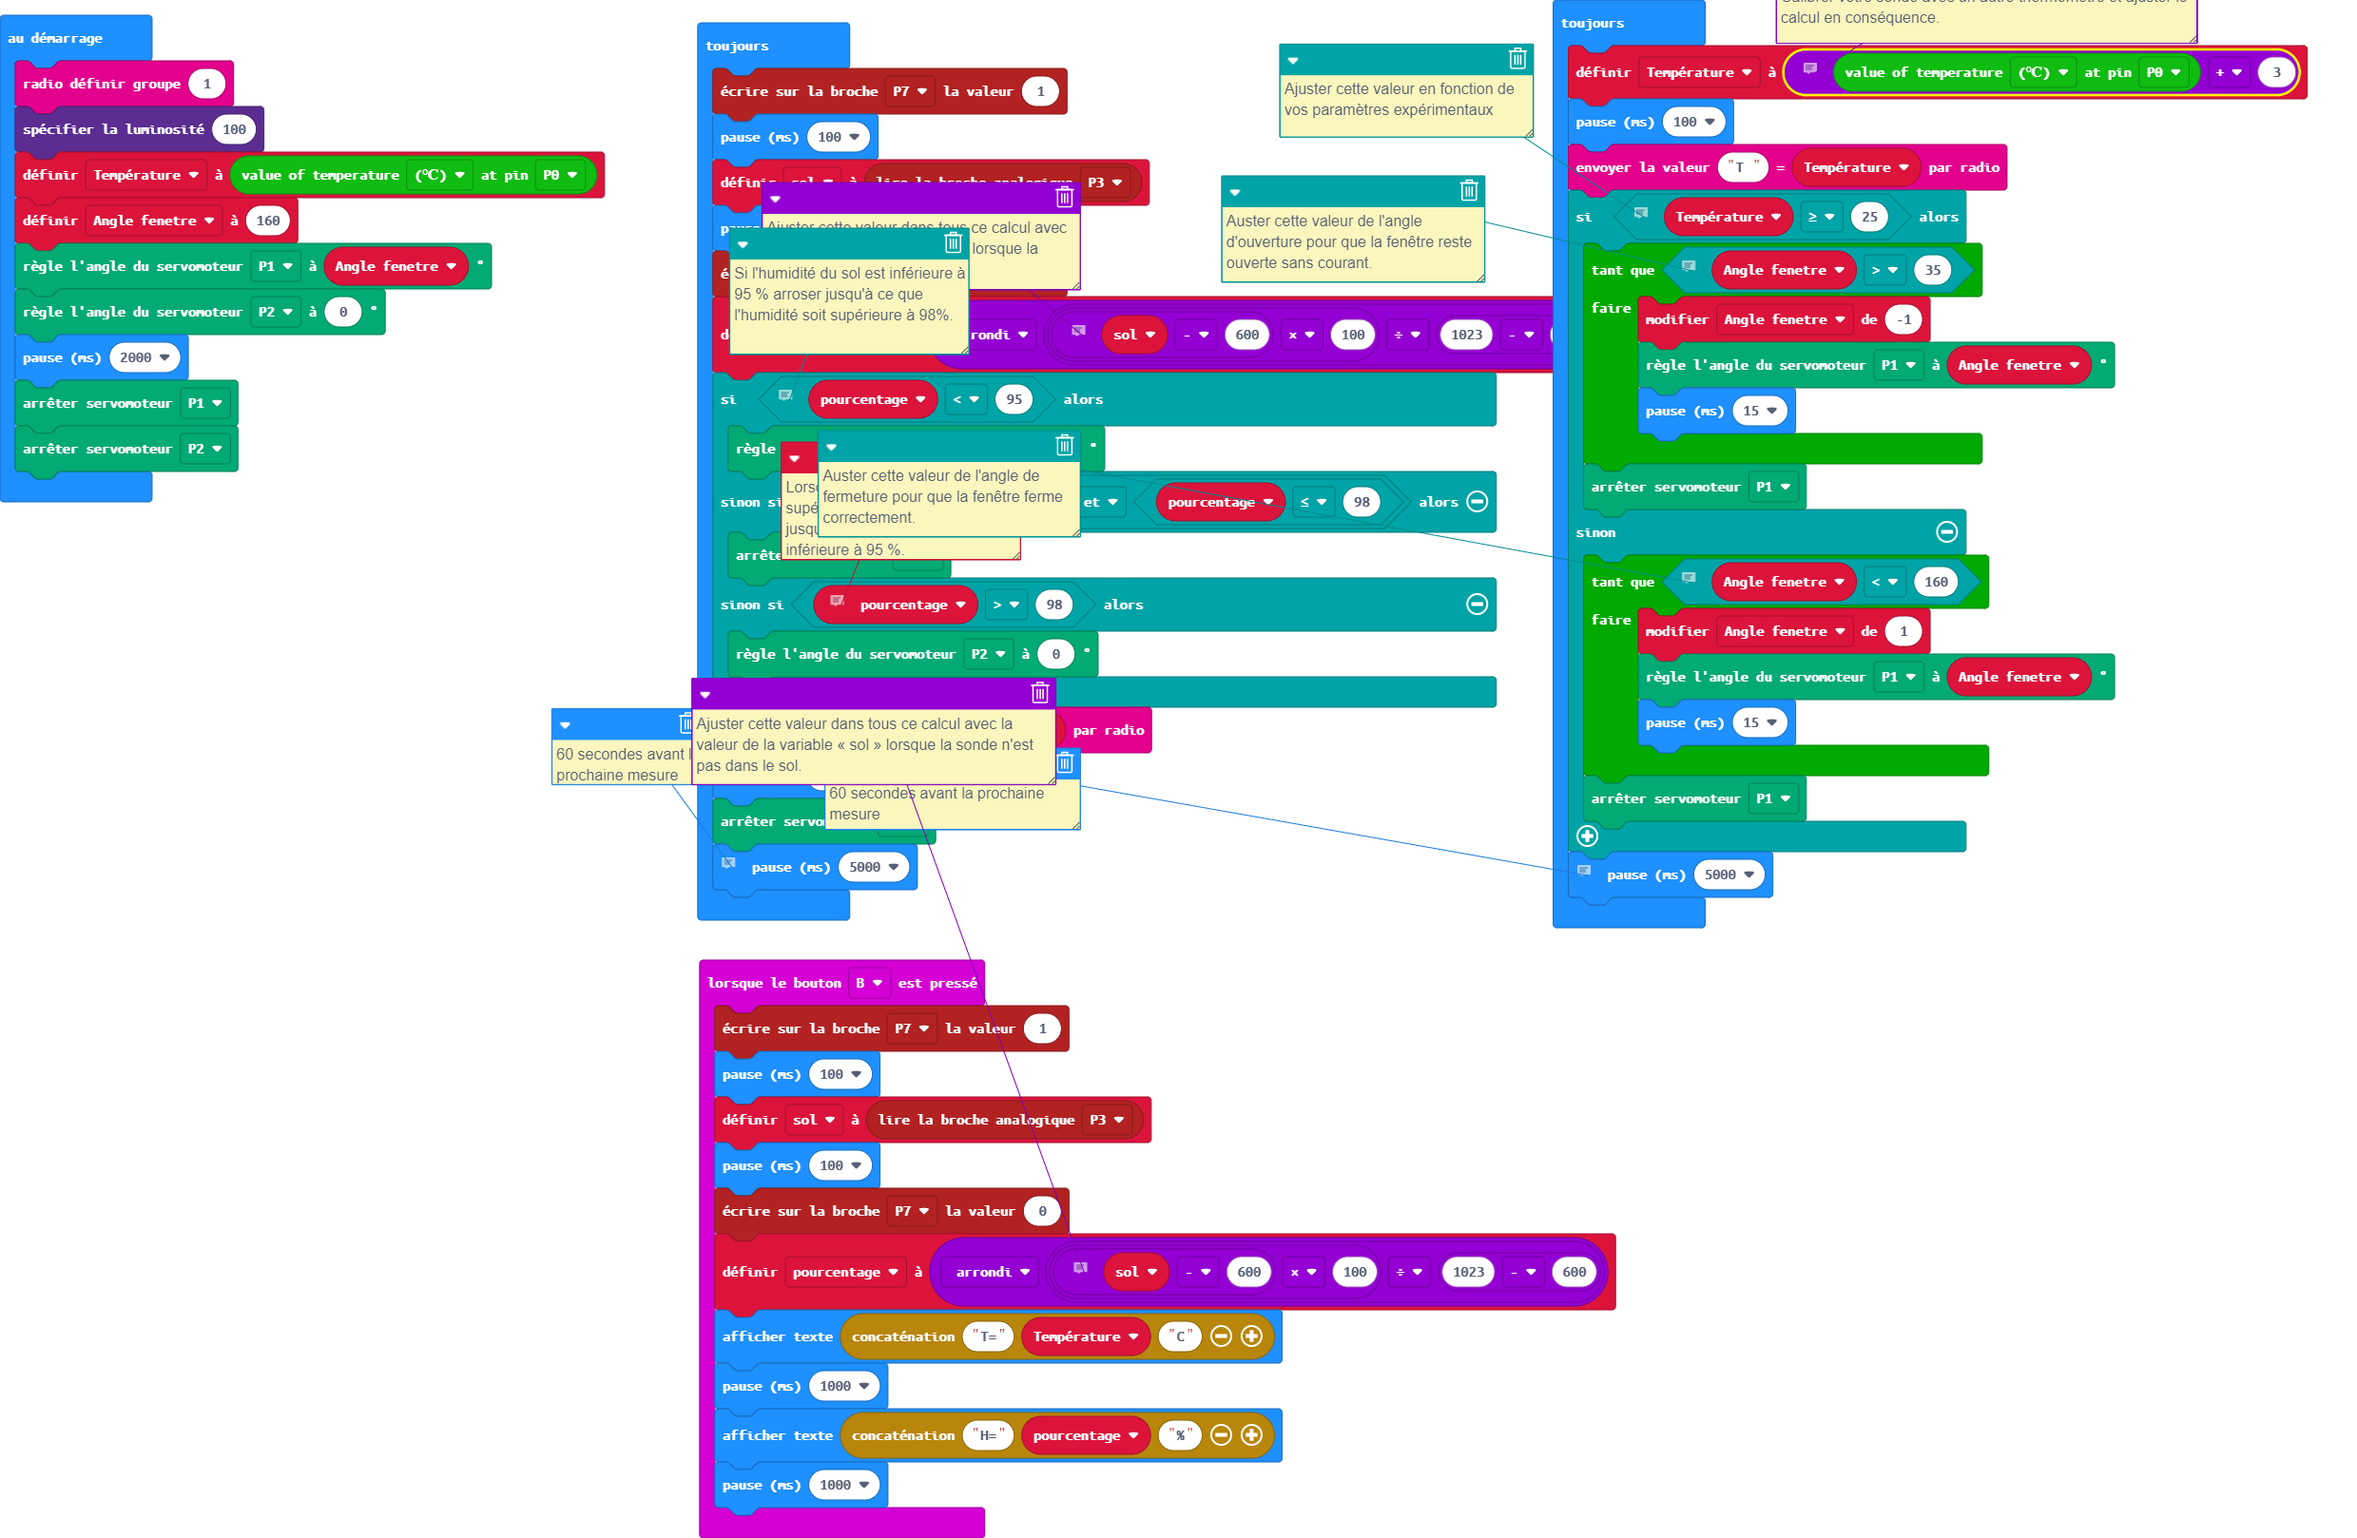
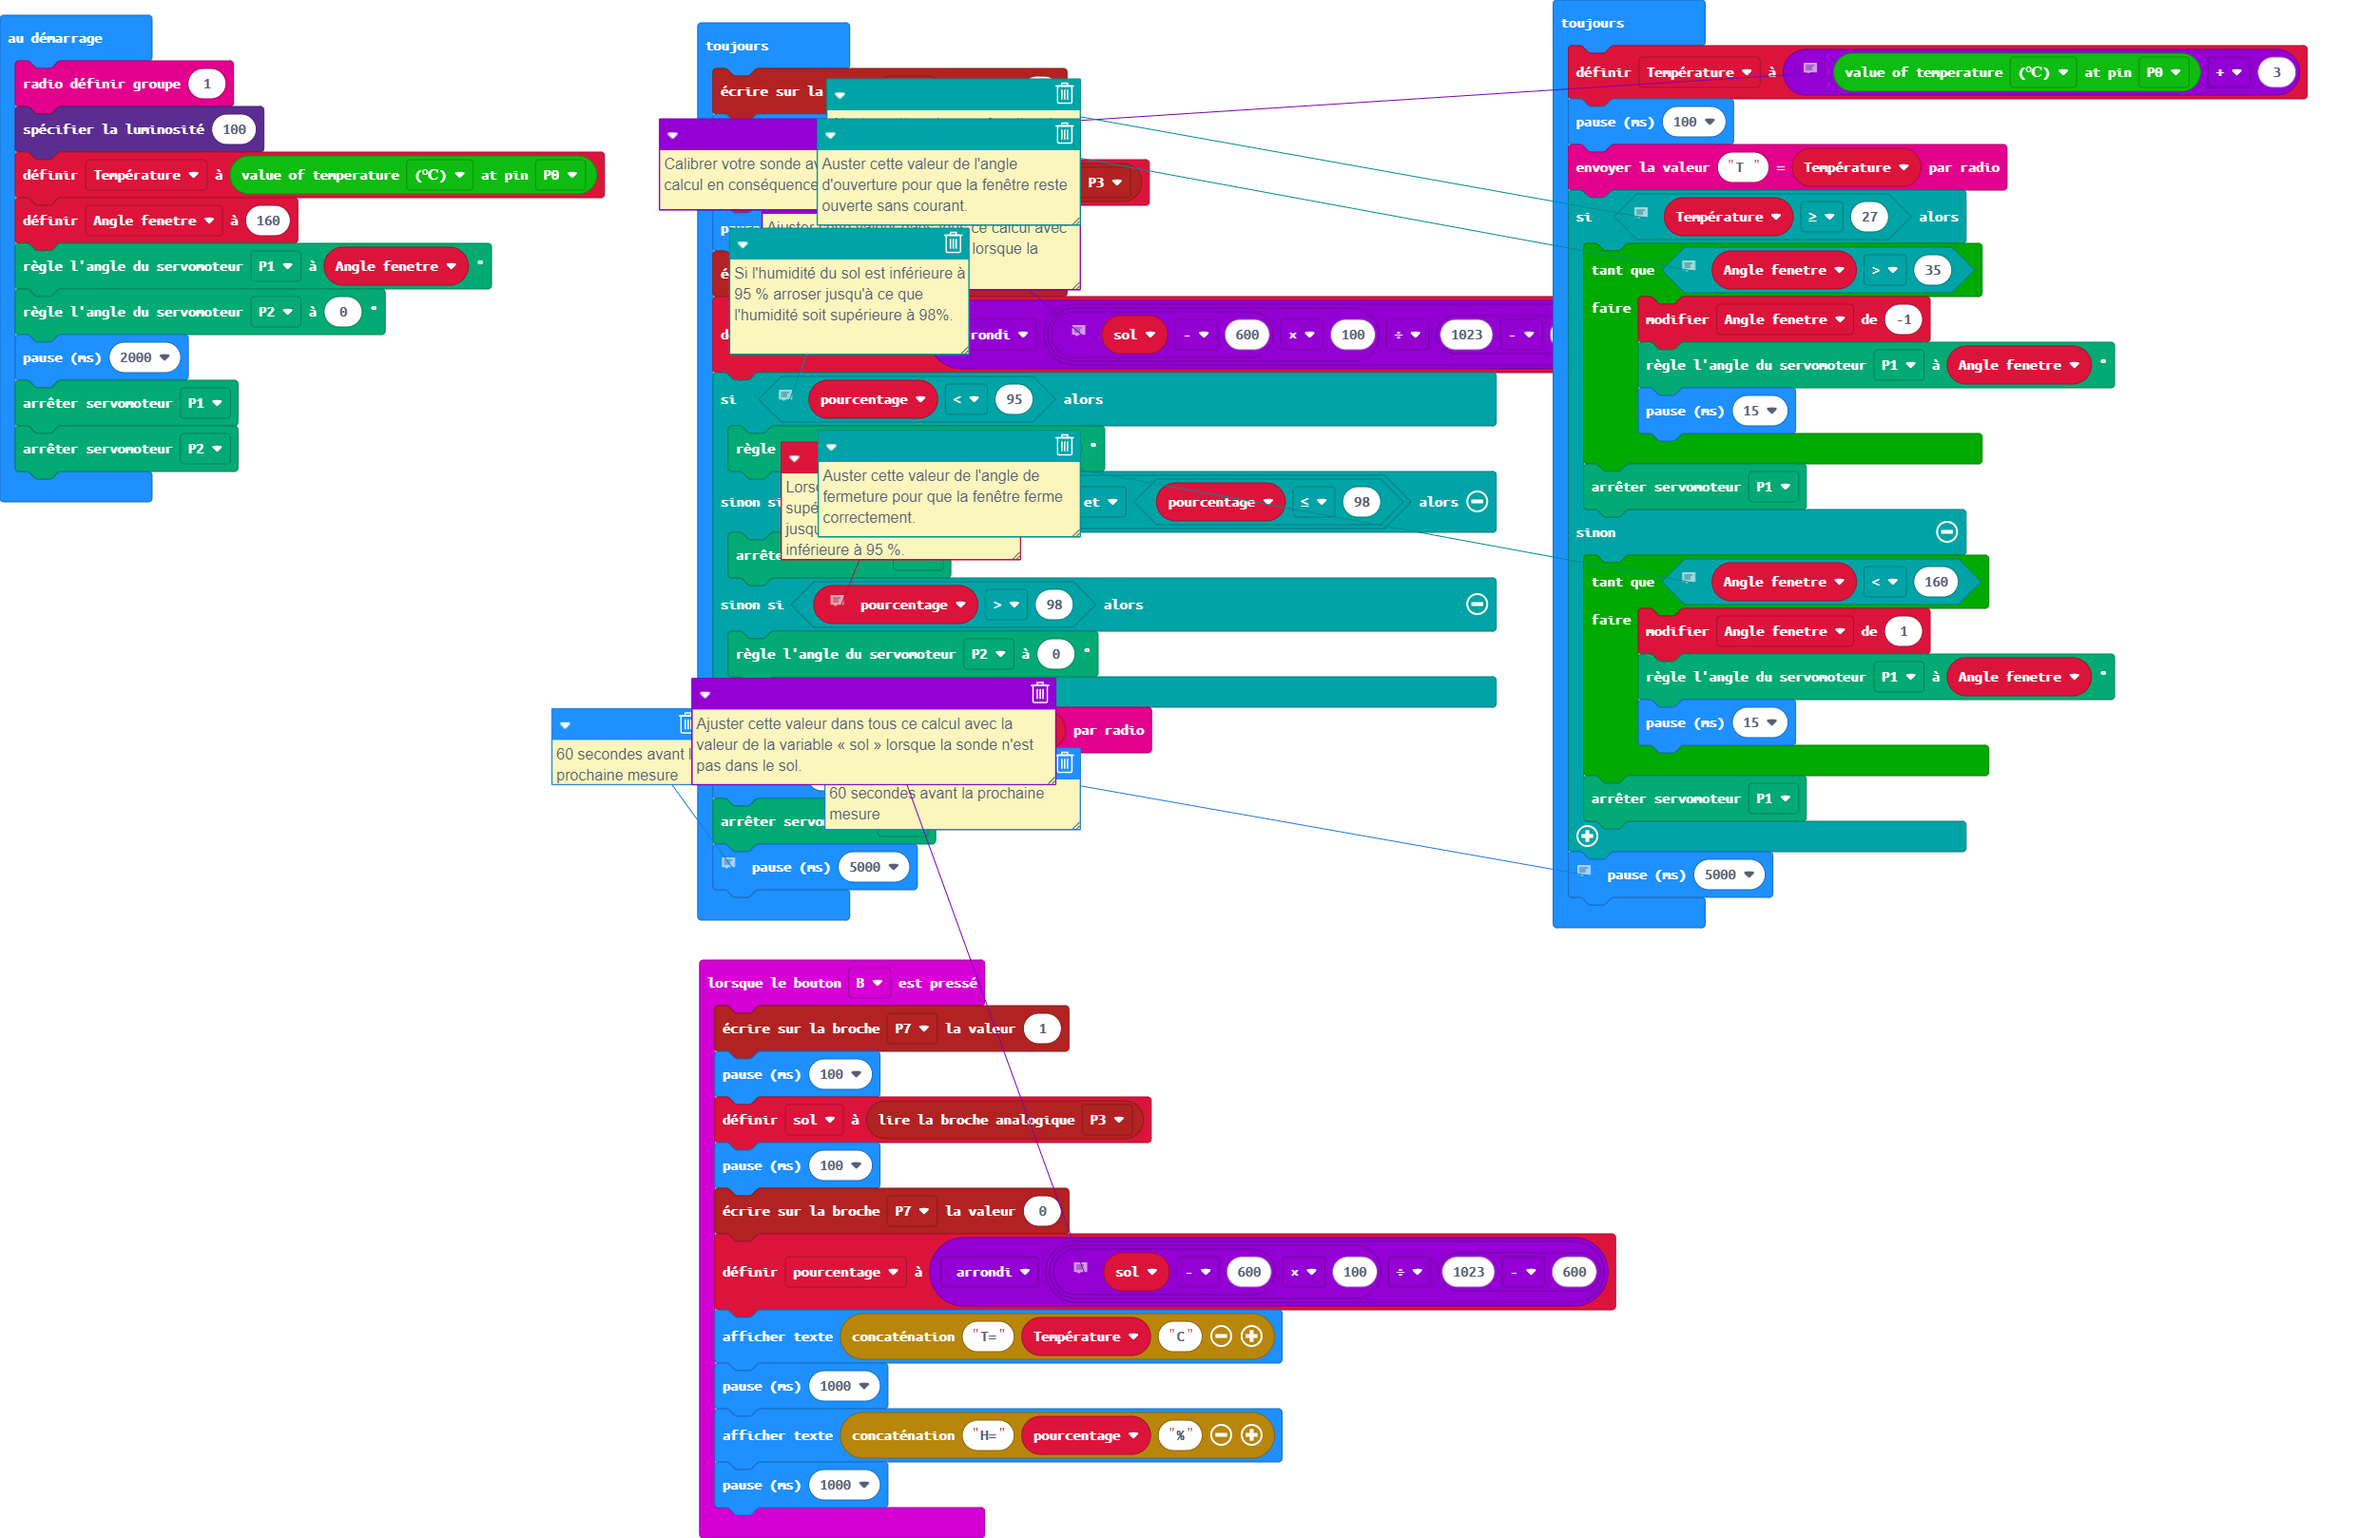
Mise à jour main.blocks, main.ts

Changed region(s): [[0.497, 0.0309, 0.6523, 0.1854], [0.2795, 0.0309, 0.4659, 0.1545], [0.7455, 0.0, 0.9629, 0.0618]]

diff --git a/main.ts b/main.ts
@@ -52,7 +52,7 @@ basic.forever(function () {
     basic.pause(100)
     radio.sendValue("T ", Température)
     // Ajuster cette valeur en fonction de vos paramètres expérimentaux
-    if (Température >= 25) {
+    if (Température >= 27) {
         // Auster cette valeur de l'angle d'ouverture pour que la fenêtre reste ouverte sans courant.
         while (Angle_fenetre > 35) {
             Angle_fenetre += -1
